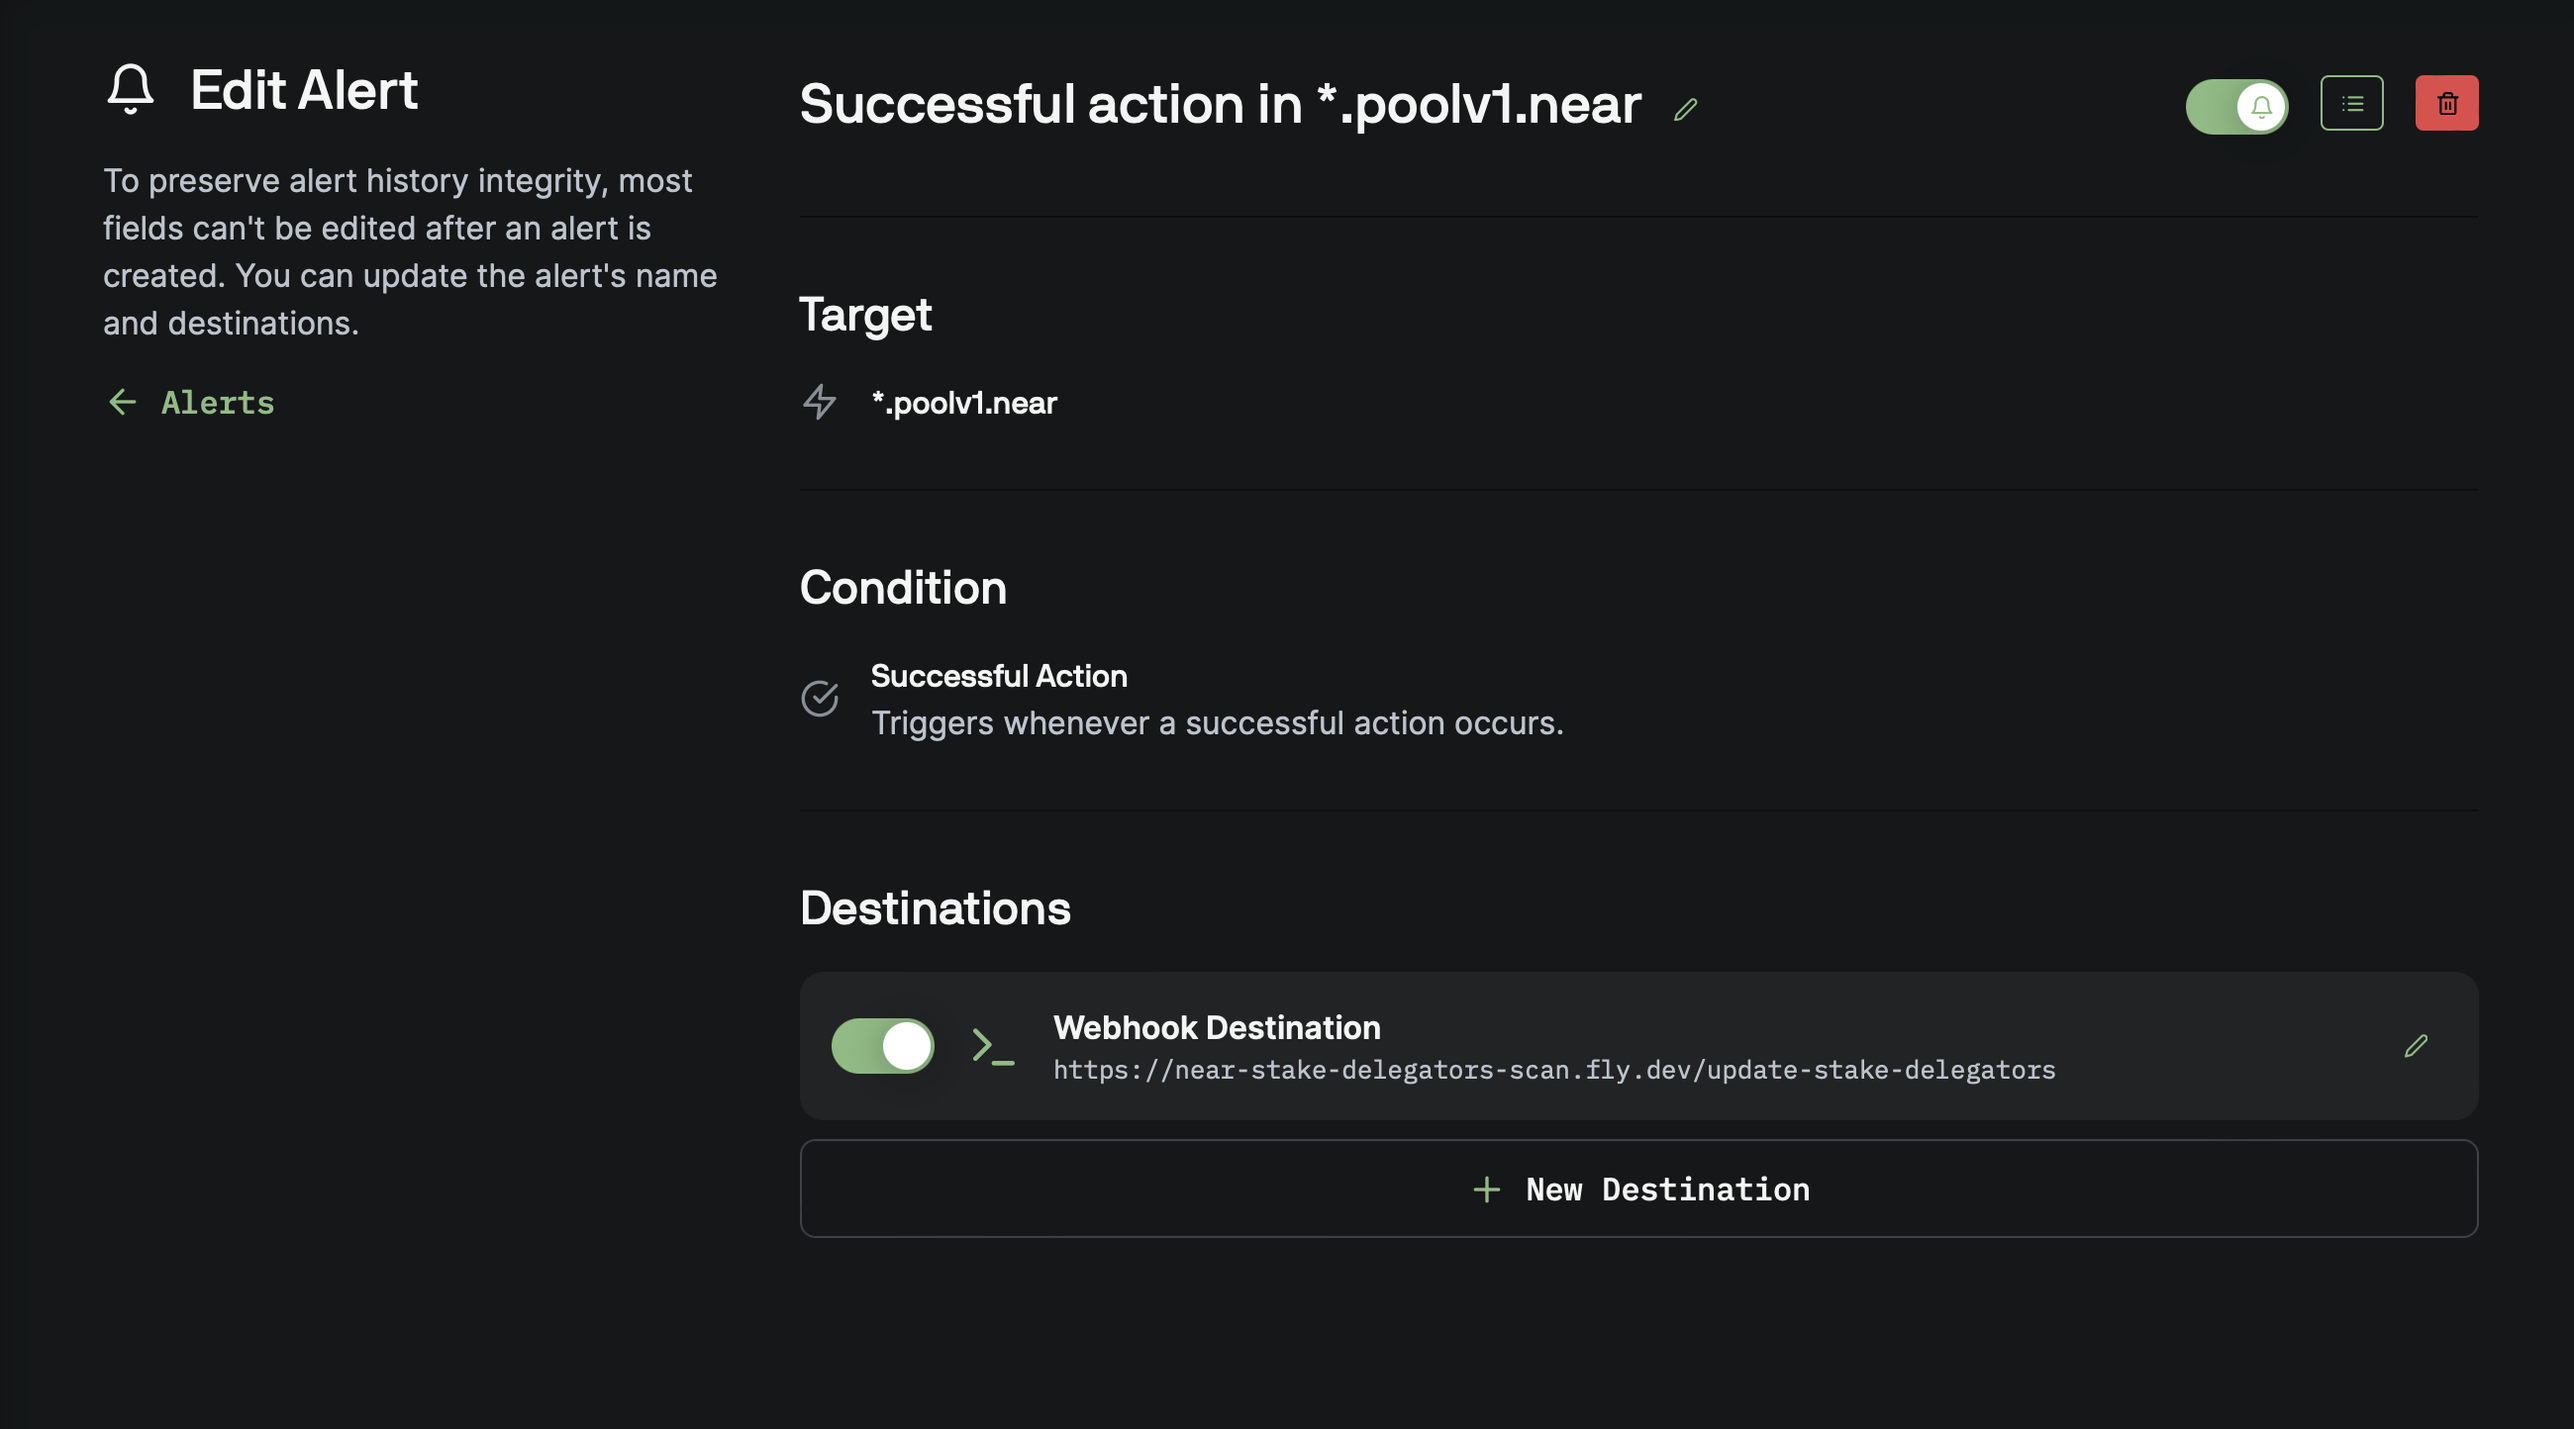
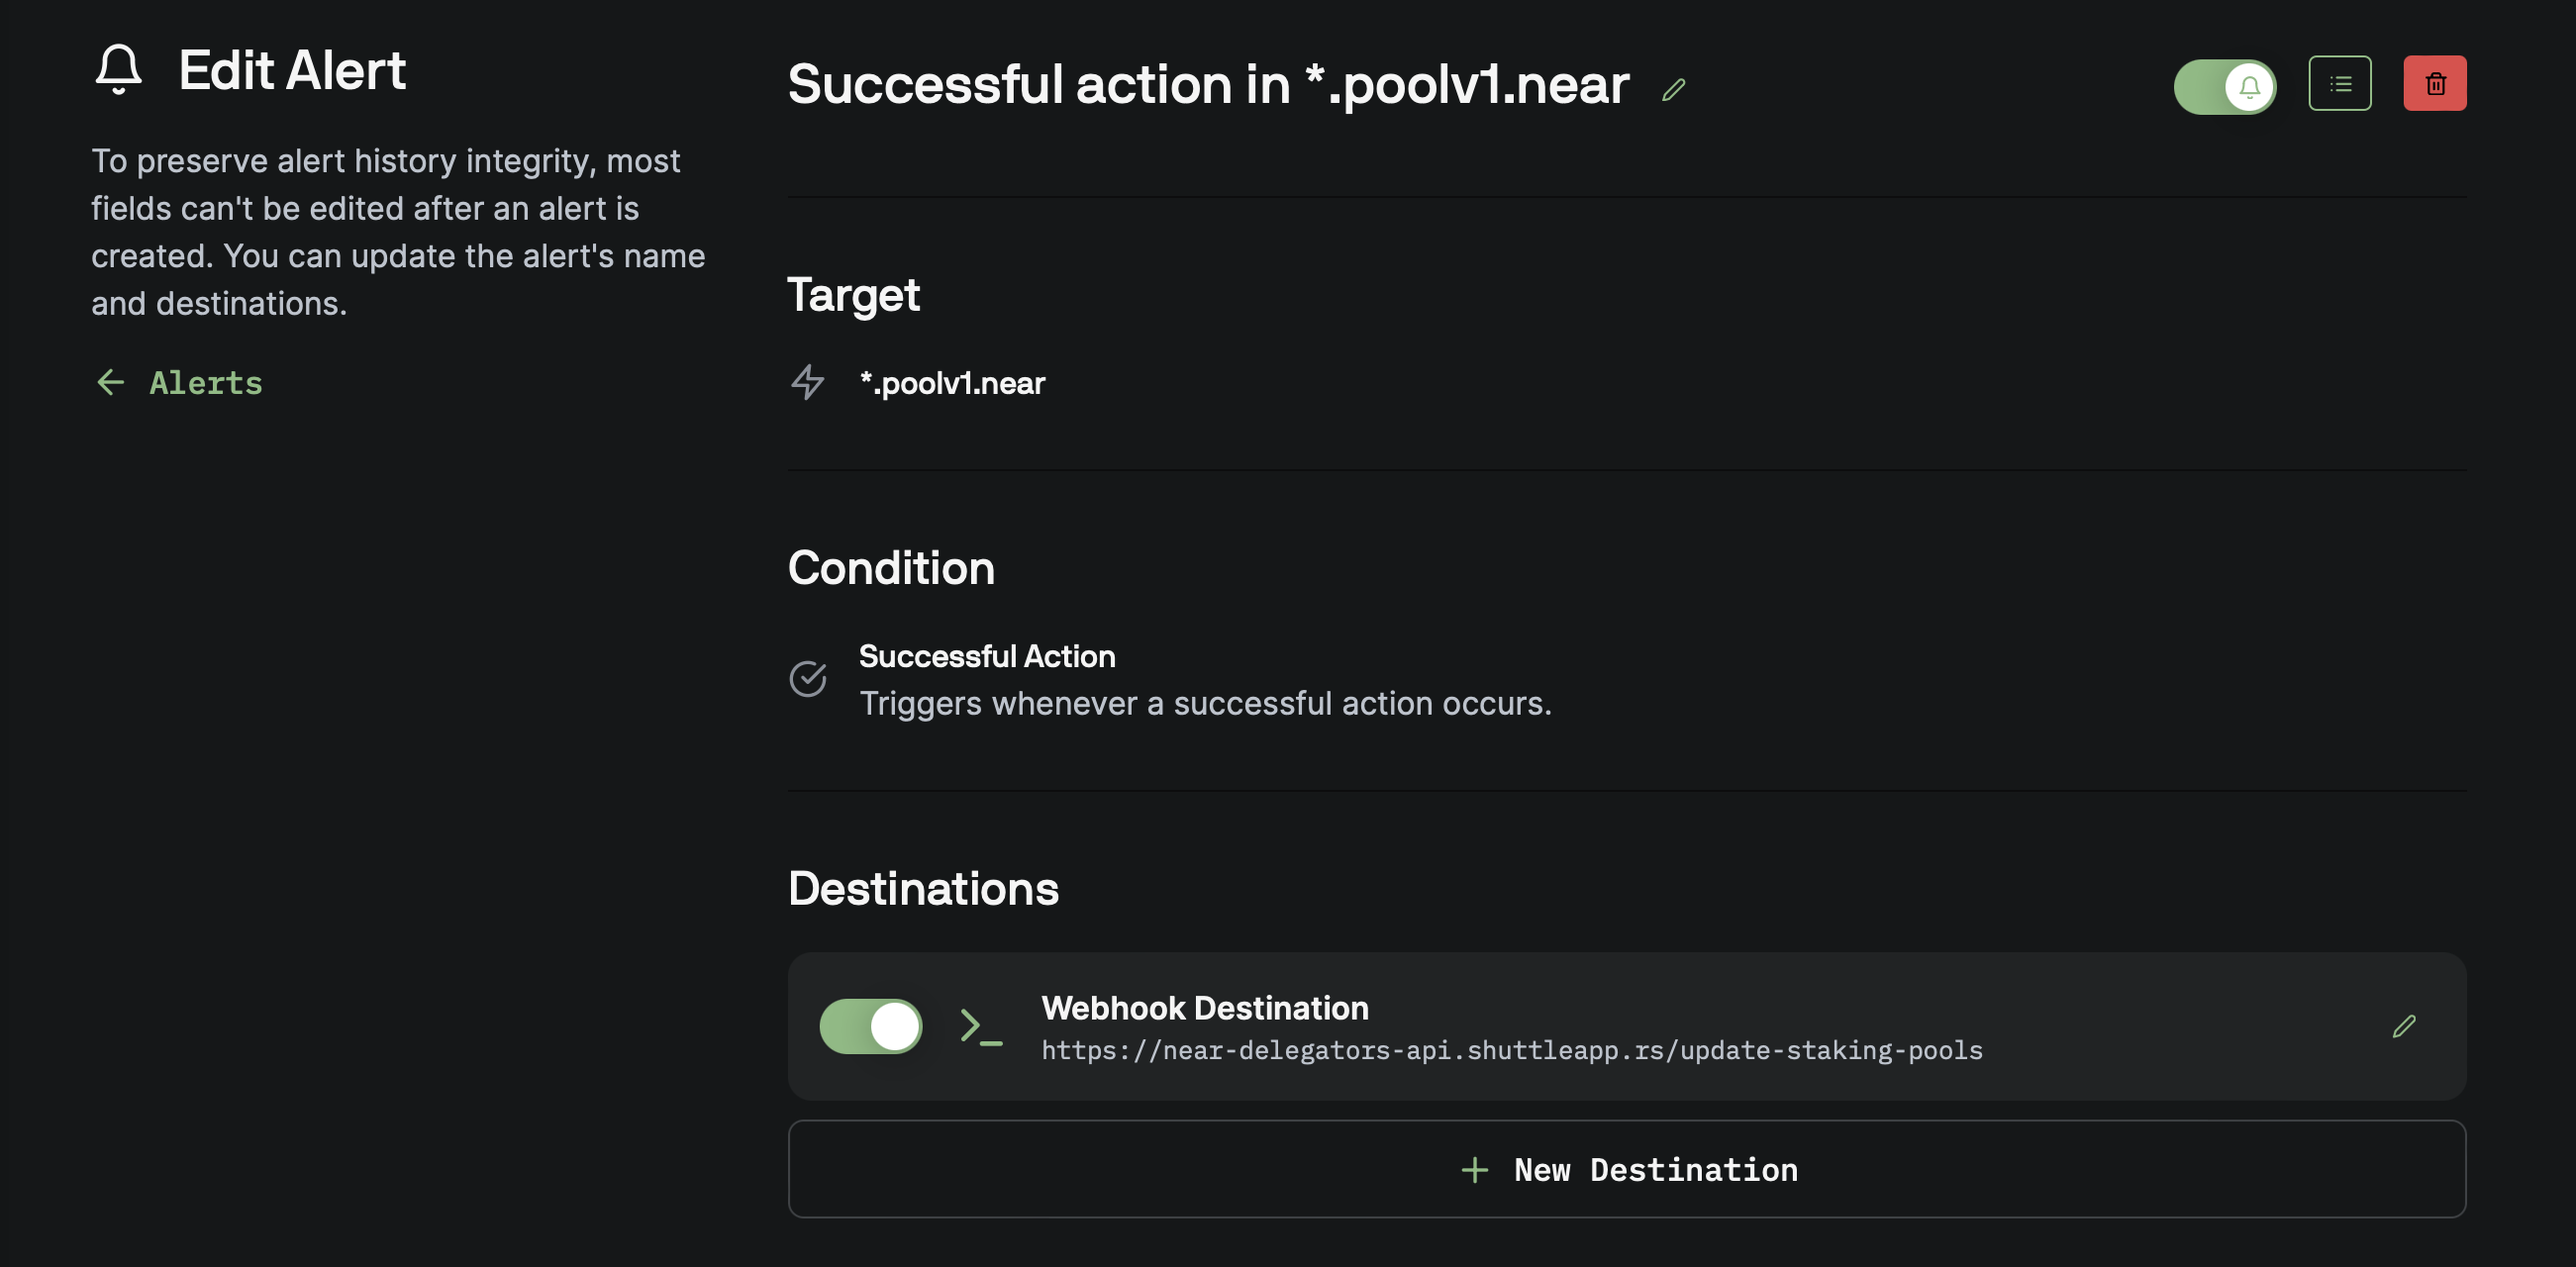
docs: modified docs due to the migration to shuttle.rs

diff --git a/README.md b/README.md
@@ -55,51 +55,59 @@ http https://near-delegators-api.fly.dev/get-staking-pools/frolik.near
 
 - **POST Endpoint**: The `/update-staking-pools` endpoint allows for the update of delegator information.
 
-## Deployment on fly.io
+## Setting up
 
-Firstly, you need to create an account and authenticate:
+### Pagoda Console Alerts
 
-```bash
-fly auth
-```
+Firstly, you need to subscribe for updates using [Pagoda Console](https://console.pagoda.co/). It has configurable alerts to send POST request to the deployed application whenever a new successful action happens on target *.poolv1.near  
 
-Then simply run launch command:
-
-![launch](images/fly-launch.png)
-
-> To ensure high availability, especially for production apps, fly.io strongly recommend running at least 2 machines. You can scale up the number of machines using the fly scale command in the CLI. Check out the [documentation](https://fly.io/docs/apps/scale-count/#scale-the-number-of-machines-in-a-single-region) for more details.
-
-Use show command to view current resources:
-
-```bash
-fly scale show
-```
-
-And count command to scale your app:
-
-```bash
-fly scale count 2
-```
-
-In case you want to redeploy application:
-
-```bash
-fly deploy
-```
-
-You also can view logs via cli or fly.io dashboard:
-
-```bash
-fly logs -a near-delegators-api
-```
-The application logs requests and errors using the `pretty_env_logger` crate and provides timestamped logs in a readable format.
-
-The API will be accessible at generated fly.io link.
-
-## Pagoda Console Alerts
-
-You can either call webhook by yourself or use [Pagoda Console](https://console.pagoda.co/) to send POST request to the deployed application if new successful action happens on target *.poolv1.near  
 Here's a suggested configuration:
 
 ![pagoda console](images/pagoda-console.png)
 Feel free to customize and extend the functionality based on your specific use case.
+
+
+### Deployment on shuttle.rs
+
+#### Installation
+
+```bash
+cargo install cargo-shuttle
+```
+
+#### Creating your project
+
+```bash
+cargo shuttle init
+```
+
+#### Deployment
+
+1) Start project
+```bash
+cargo shuttle project start
+```
+
+2) Deploy
+```bash
+cargo shuttle deploy --allow-dirty
+```
+> [!NOTE]  
+> `--allow-dirty` or `--ad` allows deploying with uncommitted git changes
+
+#### Status
+```bash
+cargo shuttle status
+```
+
+#### Logs
+
+```bash
+cargo shuttle logs --follow
+```
+
+You also can view logs on shuttle.rs dashboard:
+
+The application logs requests and errors using the `pretty_env_logger` crate and provides timestamped logs in a readable format.
+
+The API will be accessible at generated shuttle.rs link.
